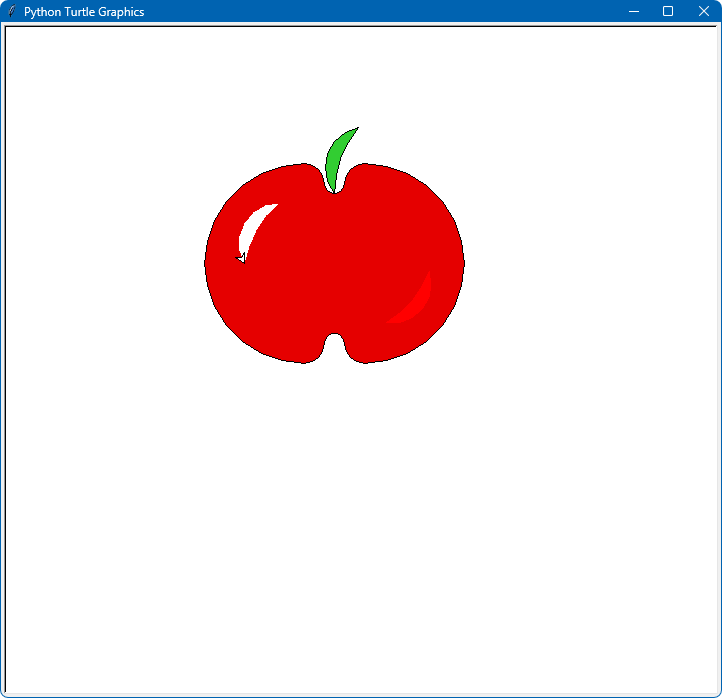
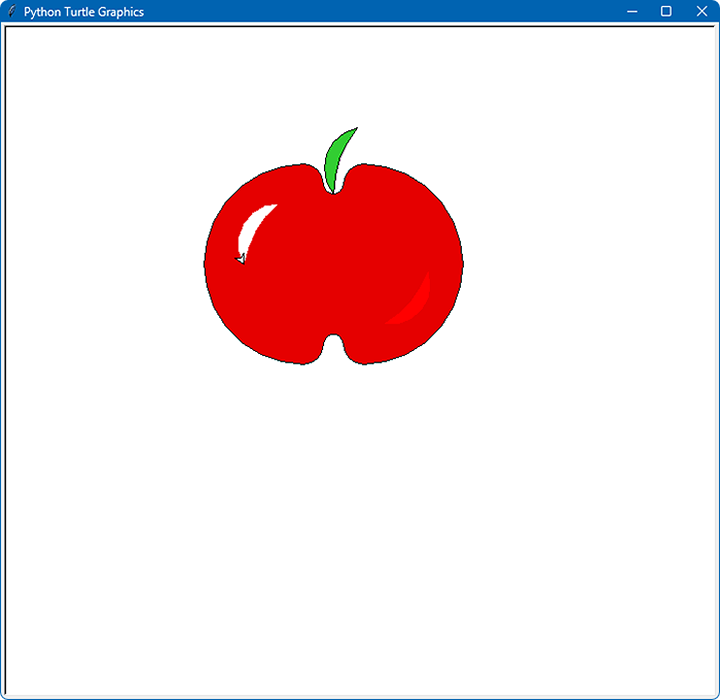
добавил ФИО и движение туда-сюда, fix #1

diff --git a/MyApplePicture.py b/MyApplePicture.py
@@ -1,4 +1,5 @@
 import turtle
+import threading
 
 turtle.speed(200)
 turtle.fillcolor("#E50000")
@@ -78,6 +79,23 @@ turtle.left(320) # 320
 turtle.circle(40, 120)  # 40 120 левая сторона
 
 turtle.end_fill()
+
+
+def drawMyName(X=-320):
+    turtle.goto(X, -50.00)  # -320.00  -50.00  >>>>>>>  -20.00  -50.00
+    turtle.color('#0000FF')
+    turtle.write("Қайрулла Руслан Ербулатұлы (ВТиП-402)", move=True, align='left', font=('Arial', 14, 'bold'))
+    # time.sleep(1)
+    turtle.undo()
+
+def tudaSuda():
+    while(True):
+        for i in range(-320, -20, 20):
+            drawMyName(i)
+        for i in range(-20, -320, -20):
+            drawMyName(i)
+
+threading.Thread(target=tudaSuda(), args=()).start()
 
 
 

diff --git a/README.md b/README.md
@@ -1,3 +1,1 @@
-<img src="_MY_PICTURES/Apple.png" width=50% align="middle"><img src="_MY_PICTURES/2022-09-16_235958.png" width=50% align="middle">
-<img src="_MY_PICTURES/Maket.png" width=50% align="middle"><img src="_MY_PICTURES/TASK_6.png" width=50% align="top">
-<img src="_MY_PICTURES/2022-09-16_235908.png" width=50% align="middle">
+<img src="_MY_PICTURES/Animation.gif" width=50% align="middle"><img src="_MY_PICTURES/2022-09-16_235958.png" width=50% align="top"><img src="_MY_PICTURES/Apple.png" width=26% align="top"><img src="_MY_PICTURES/Maket.png" width=21% align="top"><img src="_MY_PICTURES/TASK_6.png" width=52% align="top">
